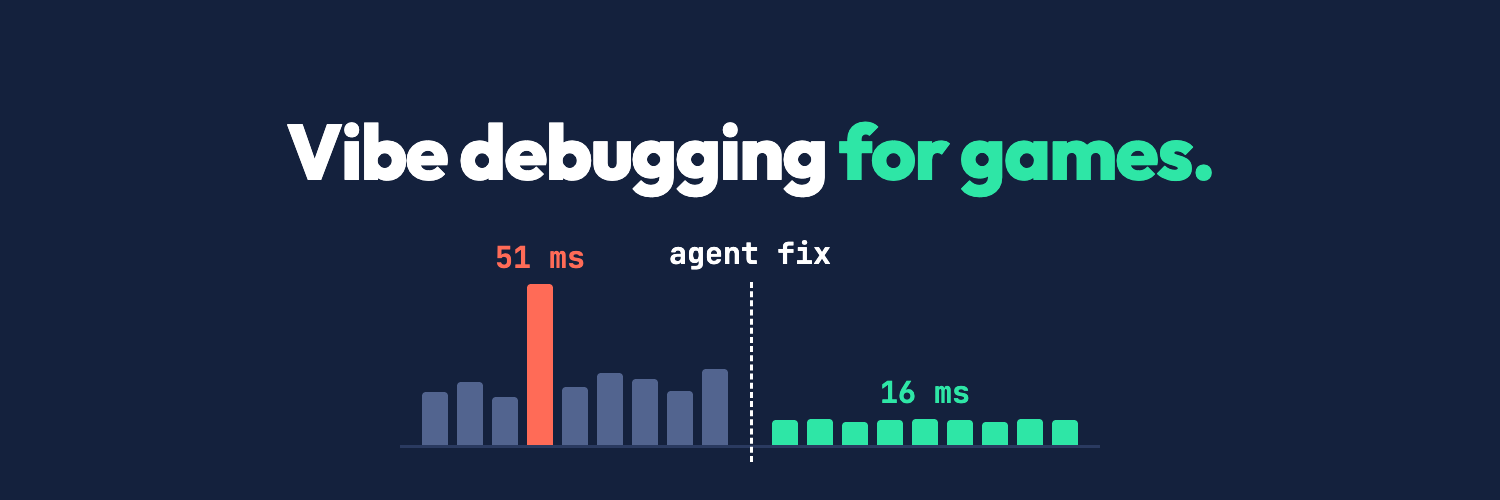
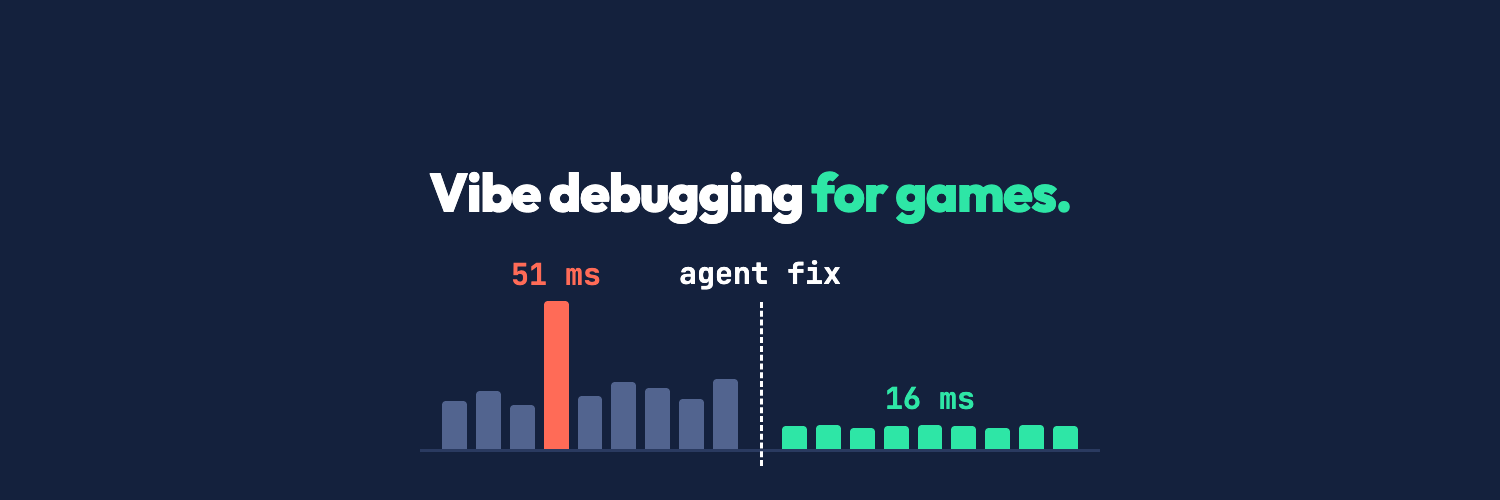
Sync with the private repo at 54e0c18
Exported from the private repo at 54e0c18, without cloud/.

diff --git a/assets/brand/glitchless/social/x-banner.html b/assets/brand/glitchless/social/x-banner.html
@@ -7,17 +7,17 @@
 <link rel="preconnect" href="https://fonts.gstatic.com" crossorigin>
 <link rel="stylesheet" href="https://fonts.googleapis.com/css2?family=Outfit:wght@800&family=JetBrains+Mono:wght@700&display=swap">
 <style>
-/* X profile banner, 1500 x 500. A phone shows only the middle ~1250 px at about a quarter of this size, with the
-   status bar over the top corners, the back and search buttons over the middle of each edge (y 200–315) and the
-   profile picture over the bottom left. So there are only two things, both big: the headline (y 120–205, under the
-   status bar and above the buttons) and the chart (x 400–1100, its tall bars clear of the buttons). Labels are
-   30 px, about 9 pt on a phone; nothing smaller. */
+/* X profile banner, 1500 x 500. Measured on an iPhone: it shows the middle ~1250 px, the Dynamic Island covers
+   x 550–950 down to y 155, the back button sits at x 170–280 and the search and more buttons at x 1080–1330 (all at
+   y 205–315), and the profile picture covers x 160–470 below y 455. So the headline starts at y 165 and is narrow
+   enough (x 430–1070) to pass between the buttons, and the chart (x 420–1100, y 258–452) keeps its tall bars and
+   labels between them and stops above the profile picture. Labels are 30 px, about 9 pt on a phone. */
 :root { --mint: #2EE6A6; --navy: #14213D; --coral: #FF6B57; --white: #FFFFFF; --slate: #52648F; --rule: #2A3A60 }
 * { box-sizing: border-box; margin: 0 }
 html, body { width: 1500px; height: 500px; overflow: hidden; background: var(--navy) }
-h1 { position: absolute; left: 0; right: 0; top: 112px; text-align: center; font: 800 78px/1 "Outfit", sans-serif; letter-spacing: -0.025em; color: var(--white) }
+h1 { position: absolute; left: 0; right: 0; top: 165px; text-align: center; font: 800 54px/1 "Outfit", sans-serif; letter-spacing: -0.025em; color: var(--white) }
 h1 span { color: var(--mint) }
-.chart { position: absolute; left: 400px; width: 700px; top: 238px; height: 210px; display: grid; grid-template-columns: 1fr 1fr }
+.chart { position: absolute; left: 420px; width: 680px; top: 258px; height: 194px; display: grid; grid-template-columns: 1fr 1fr }
 .side { display: flex; align-items: flex-end; gap: 9px; padding: 0 22px }
 .side i { flex: 1; background: var(--slate); border-radius: 4px 4px 0 0 }
 .side i.hot { background: var(--coral) }

diff --git a/unreal/test/core/CoreTests.cpp b/unreal/test/core/CoreTests.cpp
@@ -278,7 +278,7 @@ TEST(KeepsEverythingUntilInitThenSendsSessionStartFirst)
 	EXPECT_EQ(Env.Find("service")->AsString(), "fetch"); // service is lowercased
 	EXPECT_EQ(Env.Find("version")->AsString(), "1.2.3"); // the project's version
 	EXPECT_EQ(Env.Find("env")->AsString(), "dev"); // dev in the editor and development builds
-	EXPECT_EQ(Env.Find("sdk")->AsString(), "glitchless-unreal/0.1.0");
+	EXPECT_EQ(Env.Find("sdk")->AsString(), "glitchless-unreal/0.2.0");
 	EXPECT(Env.Find("player_id")->IsNull()); // anonymous mode has no player ID
 	EXPECT(Text::StartsWith(Env.Find("session_id")->AsString(), "s_"));
 	EXPECT_EQ(OfType(Events, "error").at(0).Find("fn")->AsString(), "LogTemp");
@@ -855,7 +855,7 @@ TEST(MeasureReportsTheNextSeconds)
 	EXPECT_EQ(Result.Find("frames")->AsInt(), 60);
 	EXPECT_EQ(Result.Find("frame_budget_ms")->AsNumber(), 16.67);
 	EXPECT_EQ(Result.Find("draw_calls")->Find("avg")->AsInt(), 40);
-	EXPECT_EQ(Result.Find("sdk")->AsString(), "glitchless-unreal/0.1.0");
+	EXPECT_EQ(Result.Find("sdk")->AsString(), "glitchless-unreal/0.2.0");
 	EXPECT_EQ(Result.Find("session_id")->AsString(), Core->GetSessionId());
 	EXPECT_EQ(Result.Find("update_cpu_ms")->Find("p50")->AsNumber(), 4.0);
 	EXPECT_EQ(Result.Find("render_cpu_ms")->Find("p50")->AsNumber(), 3.0);
@@ -1128,7 +1128,7 @@ TEST(LiveSaysWhatIsGoingOn)
 	H.Frames(*Core, 1); // the frame that finishes the hitch
 	Core->ReportError("log_error", "boom", "", FValue(), false, "LogTemp");
 	const FValue L = Core->Live();
-	EXPECT_EQ(L.Find("sdk")->AsString(), "glitchless-unreal/0.1.0");
+	EXPECT_EQ(L.Find("sdk")->AsString(), "glitchless-unreal/0.2.0");
 	EXPECT_EQ(L.Find("level")->AsString(), "Arena");
 	EXPECT_EQ(L.Find("session_id")->AsString(), Core->GetSessionId());
 	EXPECT(L.Find("frames")->Size() >= 2);

diff --git a/unreal/Plugins/Glitchless/Source/Glitchless/Private/Tests/GlitchlessTests.cpp b/unreal/Plugins/Glitchless/Source/Glitchless/Private/Tests/GlitchlessTests.cpp
@@ -94,7 +94,7 @@ bool FGlitchlessGzipTest::RunTest(const FString& Parameters)
 	TestTrue(TEXT("the batch is gzip"), Body.size() > 2 && Body[0] == 0x1f && Body[1] == 0x8b);
 	Glitchless::FValue Envelope;
 	TestTrue(TEXT("it unpacks to JSON"), Glitchless::FValue::Parse(Gunzip(Body), Envelope));
-	TestEqual(TEXT("sdk"), GlitchlessText::Tchar(Envelope.Find("sdk") ? Envelope.Find("sdk")->AsString() : ""), FString(TEXT("glitchless-unreal/0.1.0")));
+	TestEqual(TEXT("sdk"), GlitchlessText::Tchar(Envelope.Find("sdk") ? Envelope.Find("sdk")->AsString() : ""), FString(TEXT("glitchless-unreal/0.2.0")));
 	return true;
 }
 

diff --git a/unreal/Plugins/Glitchless/Source/Glitchless/Private/Core/GlitchlessCore.h b/unreal/Plugins/Glitchless/Source/Glitchless/Private/Core/GlitchlessCore.h
@@ -139,8 +139,8 @@ namespace Glitchless
 	class FCore
 	{
 	public:
-		static constexpr const char* SdkVersion = "0.1.0";
-		static constexpr const char* Sdk = "glitchless-unreal/0.1.0";
+		static constexpr const char* SdkVersion = "0.2.0";
+		static constexpr const char* Sdk = "glitchless-unreal/0.2.0";
 		static constexpr int SendDeadlineMs = 1500; // how long closing or going to the background may wait on the network
 
 		FCore();

diff --git a/unreal/Plugins/Glitchless/Source/Glitchless/Private/Glitchless.cpp b/unreal/Plugins/Glitchless/Source/Glitchless/Private/Glitchless.cpp
@@ -61,7 +61,7 @@ FGlitchlessOptions FGlitchlessOptions::FromSettings(const UGlitchlessSettings& S
 
 const TCHAR* FGlitchless::SdkVersion()
 {
-	return TEXT("0.1.0");
+	return TEXT("0.2.0");
 }
 
 void FGlitchless::Init(const FGlitchlessOptions& Options)

diff --git a/docs/jam/megajam-2026.md b/docs/jam/megajam-2026.md
@@ -55,7 +55,7 @@ throwaway Unreal project, and on Nov 12 copy two things into your jam project.
 
 ## Install the Unreal plugin
 
-1. Download `glitchless-unreal-0.1.0.zip` from the [glitchless-unreal 0.1.0 release](https://github.com/glitchless-gg/glitchless/releases/tag/glitchless-unreal/v0.1.0) and unzip
+1. Download `glitchless-unreal-0.2.0.zip` from the [glitchless-unreal 0.2.0 release](https://github.com/glitchless-gg/glitchless/releases/tag/glitchless-unreal/v0.2.0) and unzip
    it so the folder is `<YourProject>/Plugins/Glitchless`.
 2. **Edit → Plugins**, find Glitchless under Analytics, enable it, restart the editor.
 3. The plugin is C++ source. A Blueprint-only project has to become a C++ project once: **Tools → New C++
@@ -133,7 +133,7 @@ settings.
   https://dev.epicgames.com/documentation/unreal-engine/unreal-mcp-in-unreal-editor
 - Glitchless reads what happened when the game ran, on anyone's machine: hitches and their causes, errors,
   crashes, bug reports. Its secret key belongs in your own MCP settings, not in that `.mcp.json`.
-- Optional: the **Glitchless Toolset** plugin (`glitchless-unreal-toolset-0.1.0.zip` from the same [release](https://github.com/glitchless-gg/glitchless/releases/tag/glitchless-unreal/v0.1.0), unzipped to `<YourProject>/Plugins/GlitchlessToolset`)
+- Optional: the **Glitchless Toolset** plugin (`glitchless-unreal-toolset-0.2.0.zip` from the same [release](https://github.com/glitchless-gg/glitchless/releases/tag/glitchless-unreal/v0.2.0), unzipped to `<YourProject>/Plugins/GlitchlessToolset`)
   adds two tools to Unreal MCP while you Play In Editor: `Status` (what Glitchless sees right now) and
   `Measure` (frame stats over the next few seconds). Enable it next to Unreal MCP and All Toolsets.
 

diff --git a/unreal/Plugins/Glitchless/README.md b/unreal/Plugins/Glitchless/README.md
@@ -15,7 +15,7 @@ It sends the same events as the browser, Unity and Godot SDKs, so the dashboard,
 
 From Fab: install it to your engine, then enable Glitchless in **Edit → Plugins** (it is under Analytics). Fab installs it into the engine already built, so a Blueprint-only project can use it as it is.
 
-From GitHub: download `glitchless-unreal-0.1.0.zip` from the [glitchless-unreal 0.1.0 release](https://github.com/glitchless-gg/glitchless/releases/tag/glitchless-unreal/v0.1.0) and unzip it to your project's `Plugins/Glitchless` (or copy this folder there), or add it to a project's `AdditionalPluginDirectories`. Enable it in **Edit → Plugins** and rebuild. A Blueprint-only project needs to become a C++ project once (**Tools → New C++ Class**), because the plugin is source.
+From GitHub: download `glitchless-unreal-0.2.0.zip` from the [glitchless-unreal 0.2.0 release](https://github.com/glitchless-gg/glitchless/releases/tag/glitchless-unreal/v0.2.0) and unzip it to your project's `Plugins/Glitchless` (or copy this folder there), or add it to a project's `AdditionalPluginDirectories`. Enable it in **Edit → Plugins** and rebuild. A Blueprint-only project needs to become a C++ project once (**Tools → New C++ Class**), because the plugin is source.
 
 ## Set it up
 
@@ -120,7 +120,7 @@ Enable **Unreal MCP**, **All Toolsets** (or just Toolset Registry) and **Glitchl
 
 ## For the Glitchless server and docs (SPEC §5c)
 
-The envelope's `sdk` is `glitchless-unreal/0.1.0`. Differences from the browser SDK on the wire:
+The envelope's `sdk` is `glitchless-unreal/0.2.0`. Differences from the browser SDK on the wire:
 
 | | |
 | --- | --- |

diff --git a/docs/SPEC.md b/docs/SPEC.md
@@ -861,7 +861,7 @@ sums (kept per minute and currency) aren't split by one either.
 
 ## 5c. Unreal SDK
 
-`unreal/Plugins/Glitchless` (Unreal Engine 5.8; 5.7 is guarded but not built) sends the same envelope with `"sdk": "glitchless-unreal/0.1.0"` and the same event types. See its [README](../unreal/Plugins/Glitchless/README.md) and [PRIVACY.md](../unreal/Plugins/Glitchless/PRIVACY.md). Positions are in metres with y up (x = X/100, y = Z/100, z = Y/100). Differences:
+`unreal/Plugins/Glitchless` (Unreal Engine 5.8; 5.7 is guarded but not built) sends the same envelope with `"sdk": "glitchless-unreal/0.2.0"` and the same event types. See its [README](../unreal/Plugins/Glitchless/README.md) and [PRIVACY.md](../unreal/Plugins/Glitchless/PRIVACY.md). Positions are in metres with y up (x = X/100, y = Z/100, z = Y/100). Differences:
 
 | | |
 | --- | --- |

diff --git a/unreal/Plugins/Glitchless/PRIVACY.md b/unreal/Plugins/Glitchless/PRIVACY.md
@@ -29,7 +29,7 @@ The Glitchless server does not read or store the address a request came from. Th
 
 ## Field by field
 
-Every batch sends the envelope: `service`, `env`, `version` (the game's), `session_id`, `player_id` (null in anonymous mode), and `sdk` (`glitchless-unreal/0.1.0`).
+Every batch sends the envelope: `service`, `env`, `version` (the game's), `session_id`, `player_id` (null in anonymous mode), and `sdk` (`glitchless-unreal/0.2.0`).
 
 Every event has `type`, `ts` (when it happened, in milliseconds, UTC) and `level` (the game's own level name, or null).
 
